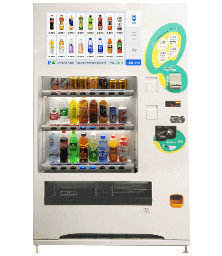
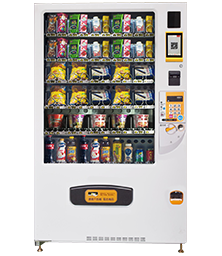
1

diff --git a/build/config.js b/build/config.js
@@ -14,13 +14,13 @@ module.exports = [
     //     name:'ruzhu-index',
     //     title:'乐橙互联科技有限公司'
     // },
-    // {
-    //     path:'lcinc',
-    //     output:'lcinc',
-    //     publicPath:'',
-    //     name:'lcinc-index',
-    //     title:'乐橙互联科技有限公司'
-    // },
+    {
+        path:'lcinc',
+        output:'lcinc',
+        publicPath:'',
+        name:'lcinc-index',
+        title:'乐橙互联科技有限公司'
+    },
     // {
     //     path:'lcinc-activity',
     //     output:'lcinc-activity',
@@ -29,14 +29,14 @@ module.exports = [
     //     title:'乐橙互联科技有限公司',
     //     filename:'index2.html',
     // },
-    // {
-    //     path:'lcinc-pc',
-    //     output:'lcinc-pc',
-    //     base:'/pc/',
-    //     publicPath:'',
-    //     name:'lcincpc-index',
-    //     title:'乐橙互联科技有限公司'
-    // },
+    {
+        path:'lcinc-pc',
+        output:'lcinc-pc',
+        base:'/pc/',
+        publicPath:'',
+        name:'lcincpc-index',
+        title:'乐橙互联科技有限公司'
+    },
     // {
     //     path:'pwa',
     //     output:'pwa',
@@ -67,7 +67,7 @@ module.exports = [
     //     type:'.ts',
     //     title:'fileUpload'
     // },
-    {
+    /*{
         path:'dati',
         output:'dati',
         publicPath:'',
@@ -80,5 +80,5 @@ module.exports = [
         publicPath:'',
         name:'mvvm-index',
         title:'mvvm'
-    },
+    },*/
 ];

diff --git a/app/lcinc-pc/template.html b/app/lcinc-pc/template.html
@@ -69,7 +69,7 @@
                             <li class="list">
                                 <a href="#1">
                                     <div class="box">
-                                        <p class="tit">饮料自动售卖机</p>
+                                        <p class="tit">大型综合食品机</p>
                                         <p class="img"><img src="static/images/tu1.png" alt=""></p>
                                     </div>
                                 </a>

diff --git a/app/lcinc/template.html b/app/lcinc/template.html
@@ -67,7 +67,7 @@
                     <li class="list">
                         <a href="#1">
                             <div class="box">
-                                <p class="tit">饮料自动售卖机</p>
+                                <p class="tit">大型综合食品机</p>
                                 <p class="img"><img src="static/images/tu1.png" alt=""></p>
                             </div>
                         </a>
